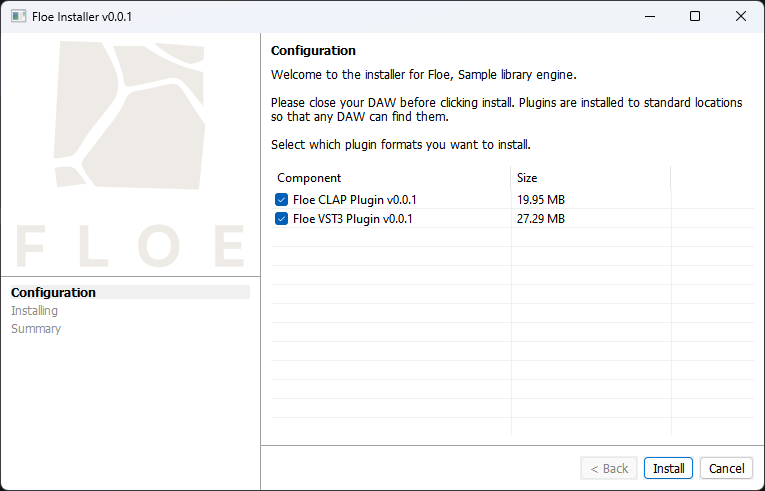
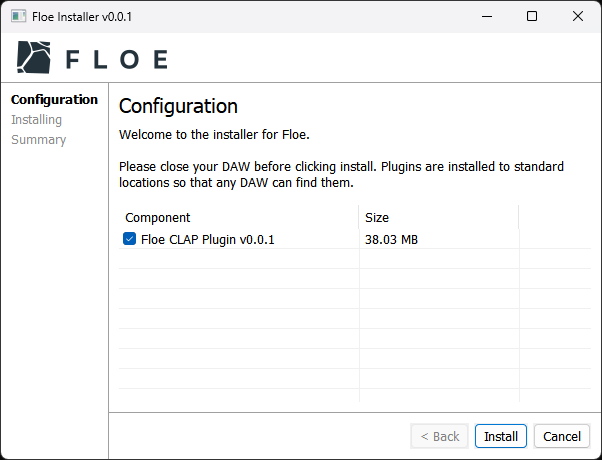
improve windows installer visuals

diff --git a/src/windows_installer/installer.cpp b/src/windows_installer/installer.cpp
@@ -38,7 +38,7 @@ constexpr auto k_page_infos = Array {
         .title = "Configuration",
         .label =
             "Welcome to the installer for Floe"
-            ".\n\nPlease close your DAW before clicking install. Plugins are installed to standard locations so that any DAW can find them.\n\nSelect which plugin formats you want to install.",
+            ".\n\nPlease close your DAW before clicking install. Plugins are installed to standard locations so that any DAW can find them.",
     },
     PageInfo {
         .title = "Installing",
@@ -271,45 +271,59 @@ Application* CreateApplication(GuiFramework& framework, u32 root_layout_id) {
     constexpr u16 k_margin = 10;
 
     {
+        auto const found_sidebar_image = GetResource(SIDEBAR_IMAGE_RC_ID);
+        if (found_sidebar_image.HasValue()) {
+            auto const& bin_data = found_sidebar_image.Value();
+
+            int width;
+            int height;
+            int channels;
+            auto rgba_data = stbi_load_from_memory((stbi_uc const*)bin_data.data,
+                                                   (int)bin_data.size,
+                                                   &width,
+                                                   &height,
+                                                   &channels,
+                                                   4);
+            if (rgba_data == nullptr) Panic("Failed to load image");
+            DEFER { stbi_image_free(rgba_data); };
+            CreateWidget(framework,
+                         root_layout_id,
+                         {
+                             .margins = {16, 16, 8, 8},
+                             .type = WidgetOptions::Image {.rgba_data = rgba_data,
+                                                           .size = {CheckedCast<u16>(width),
+                                                                    CheckedCast<u16>(height)}},
+                         });
+        }
+    }
+
+    CreateWidget(framework,
+                 root_layout_id,
+                 {
+                     .expand_x = true,
+                     .type = WidgetOptions::Divider {.orientation = Orientation::Horizontal},
+                 });
+
+    auto const main = CreateStackLayoutWidget(framework,
+                                              root_layout_id,
+                                              {
+                                                  .expand_x = true,
+                                                  .expand_y = true,
+                                                  .type =
+                                                      WidgetOptions::Container {
+                                                          .orientation = Orientation::Horizontal,
+                                                          .alignment = Alignment::Start,
+                                                      },
+                                              });
+
+    {
         auto const lhs = CreateStackLayoutWidget(framework,
-                                                 root_layout_id,
+                                                 main,
                                                  {
                                                      .expand_y = true,
                                                      .debug_name = "LHS",
                                                      .type = WidgetOptions::Container {},
                                                  });
-        {
-            auto const found_sidebar_image = GetResource(SIDEBAR_IMAGE_RC_ID);
-            if (found_sidebar_image.HasValue()) {
-                auto const& bin_data = found_sidebar_image.Value();
-
-                int width;
-                int height;
-                int channels;
-                auto rgba_data = stbi_load_from_memory((stbi_uc const*)bin_data.data,
-                                                       (int)bin_data.size,
-                                                       &width,
-                                                       &height,
-                                                       &channels,
-                                                       4);
-                if (rgba_data == nullptr) Panic("Failed to load image");
-                DEFER { stbi_image_free(rgba_data); };
-                CreateWidget(framework,
-                             lhs,
-                             {
-                                 .margins = {16, 16, 8, 8},
-                                 .type = WidgetOptions::Image {.rgba_data = rgba_data,
-                                                               .size = {CheckedCast<u16>(width),
-                                                                        CheckedCast<u16>(height)}},
-                             });
-            }
-        }
-
-        CreateWidget(framework,
-                     lhs,
-                     {
-                         .type = WidgetOptions::Divider {.orientation = Orientation::Horizontal},
-                     });
 
         for (auto const i : Range(k_page_infos.size)) {
             app->page_sidebar_labels[i] =
@@ -326,15 +340,16 @@ Application* CreateApplication(GuiFramework& framework, u32 root_layout_id) {
                              });
         }
     }
+
     CreateWidget(framework,
-                 root_layout_id,
+                 main,
                  {
                      .type = WidgetOptions::Divider {.orientation = Orientation::Vertical},
                  });
 
     {
         auto const rhs = CreateStackLayoutWidget(framework,
-                                                 root_layout_id,
+                                                 main,
                                                  {
                                                      .expand_x = true,
                                                      .expand_y = true,
@@ -361,7 +376,7 @@ Application* CreateApplication(GuiFramework& framework, u32 root_layout_id) {
                                            {
                                                .expand_x = true,
                                                .text = "title",
-                                               .type = WidgetOptions::Label {.style = LabelStyle::Bold},
+                                               .type = WidgetOptions::Label {.style = LabelStyle::Heading},
                                            });
             app->page_label = CreateWidget(framework,
                                            rhs_inner,

diff --git a/src/windows_installer/gui.cpp b/src/windows_installer/gui.cpp
@@ -481,7 +481,9 @@ void EditWidget(GuiFramework& framework, u32 id, EditWidgetOptions const& option
             case LabelStyle::Bold:
                 SendMessageW(widget.window, WM_SETFONT, (WPARAM)framework.bold_font, TRUE);
                 break;
-            default: PanicIfReached();
+            case LabelStyle::Heading:
+                SendMessageW(widget.window, WM_SETFONT, (WPARAM)framework.heading_font, TRUE);
+                break;
         }
     }
 }
@@ -662,7 +664,8 @@ u32 CreateWidget(GuiFramework& framework, u32 page, WidgetOptions options) {
                 switch (label_opts.style) {
                     case LabelStyle::DullColour:
                     case LabelStyle::Regular: f = framework.regular_font; break;
-                    case LabelStyle::Bold: f = framework.heading_font; break;
+                    case LabelStyle::Bold: f = framework.bold_font; break;
+                    case LabelStyle::Heading: f = framework.heading_font; break;
                 }
                 f;
             });
@@ -750,6 +753,7 @@ u32 CreateWidget(GuiFramework& framework, u32 page, WidgetOptions options) {
                 ListView_InsertColumn(widget.window, i, &col);
                 ListView_SetColumnWidth(widget.window, i, column.default_width);
             }
+            SendMessageW(widget.window, WM_SETFONT, (WPARAM)framework.regular_font, TRUE);
             break;
         }
         case WidgetType::Container: {
@@ -1035,8 +1039,8 @@ static LRESULT CALLBACK PageWindowProc(HWND window, UINT msg, WPARAM w_param, LP
                 switch (static_widget->label_style) {
                     case LabelStyle::DullColour: SetTextColor(hdc_static, RGB(140, 140, 140)); break;
                     case LabelStyle::Regular:
+                    case LabelStyle::Heading:
                     case LabelStyle::Bold: SetTextColor(hdc_static, RGB(0, 0, 0)); break;
-                    default: PanicIfReached();
                 }
             }
             auto const bk_colour = RGB(255, 255, 255);
@@ -1143,9 +1147,9 @@ static ErrorCodeOr<void> Main(HINSTANCE h_instance, int cmd_show) {
         return result;
     };
 
-    framework.regular_font = win32_create_font(14, false, L"Tahoma");
-    framework.bold_font = win32_create_font(14, true, L"Tahoma");
-    framework.heading_font = win32_create_font(15, true, L"Tahoma");
+    framework.regular_font = win32_create_font(16, false, L"Tahoma");
+    framework.bold_font = win32_create_font(16, true, L"Tahoma");
+    framework.heading_font = win32_create_font(24, false, L"Tahoma");
 
     if (framework.regular_font == nullptr || framework.heading_font == nullptr ||
         framework.bold_font == nullptr)
@@ -1176,7 +1180,7 @@ static ErrorCodeOr<void> Main(HINSTANCE h_instance, int cmd_show) {
     root_layout.window = CreatePageWindow(root_layout, framework.root);
     root_layout.options.debug_name = "Root";
     root_layout.options.type = WidgetOptions::Container {
-        .orientation = Orientation::Horizontal,
+        .orientation = Orientation::Vertical,
         .alignment = Alignment::Start,
     };
     auto const root_size = WindowContentsSize(framework.root);

diff --git a/src/windows_installer/gui.hpp b/src/windows_installer/gui.hpp
@@ -18,7 +18,7 @@ struct GuiFramework;
 #define WIDEN_STRING_LITERAL(x) WIDEN_MACRO_HELPER(x)
 
 constexpr u16 k_window_width = 620;
-constexpr u16 k_window_height = 500;
+constexpr u16 k_window_height = 470;
 constexpr u32 k_timer_ms = 20;
 constexpr usize k_max_widgets = 150;
 constexpr wchar_t const* k_window_title = L"Floe Installer v" WIDEN_STRING_LITERAL(FLOE_VERSION_STRING);
@@ -26,7 +26,7 @@ constexpr wchar_t const* k_window_title = L"Floe Installer v" WIDEN_STRING_LITER
 enum class Orientation { Vertical, Horizontal };
 enum class Alignment { Start, End };
 enum class TextAlignment { Left, Right, Centre };
-enum class LabelStyle { Regular, DullColour, Bold };
+enum class LabelStyle { Regular, DullColour, Bold, Heading };
 enum class ButtonStyle { Push, ExpandCollapseToggle };
 struct Margins {
     u16 l {}, r {}, t {}, b {};

diff --git a/docs/src/installation/download-and-install-floe.md b/docs/src/installation/download-and-install-floe.md
@@ -16,7 +16,7 @@ After installing Floe, you might want to [install sample libraries](install-libr
 ## Installer
 
 <img src="../images/installer-macos-gui.png" width="49%" style="display: inline;">
-<img src="../images/installer-macos-gui.png" width="49%" style="display: inline;">
+<img src="../images/installer-windows-gui.png" width="49%" style="display: inline;">
 
 **<i class="fa fa-windows"></i> Floe Installer Windows**: [Download {{#include ../../mdbook_config.txt:latest-download-Floe-Installer-Windows-filename}}](https://github.com/Floe-Project/Floe/releases/download/v{{#include ../../mdbook_config.txt:latest-release-version}}/{{#include ../../mdbook_config.txt:latest-download-Floe-Installer-Windows-filename}}) ({{#include ../../mdbook_config.txt:latest-download-Floe-Installer-Windows-size-mb}})
 
